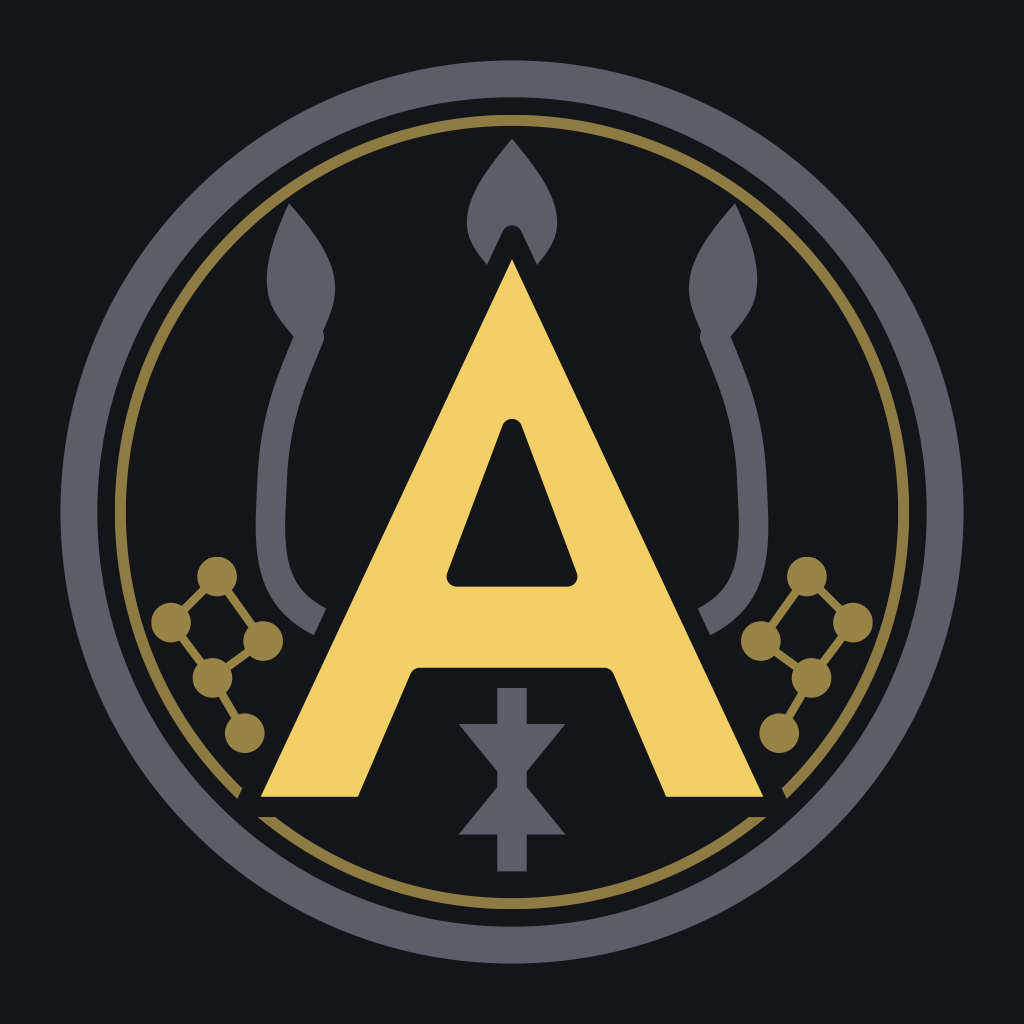
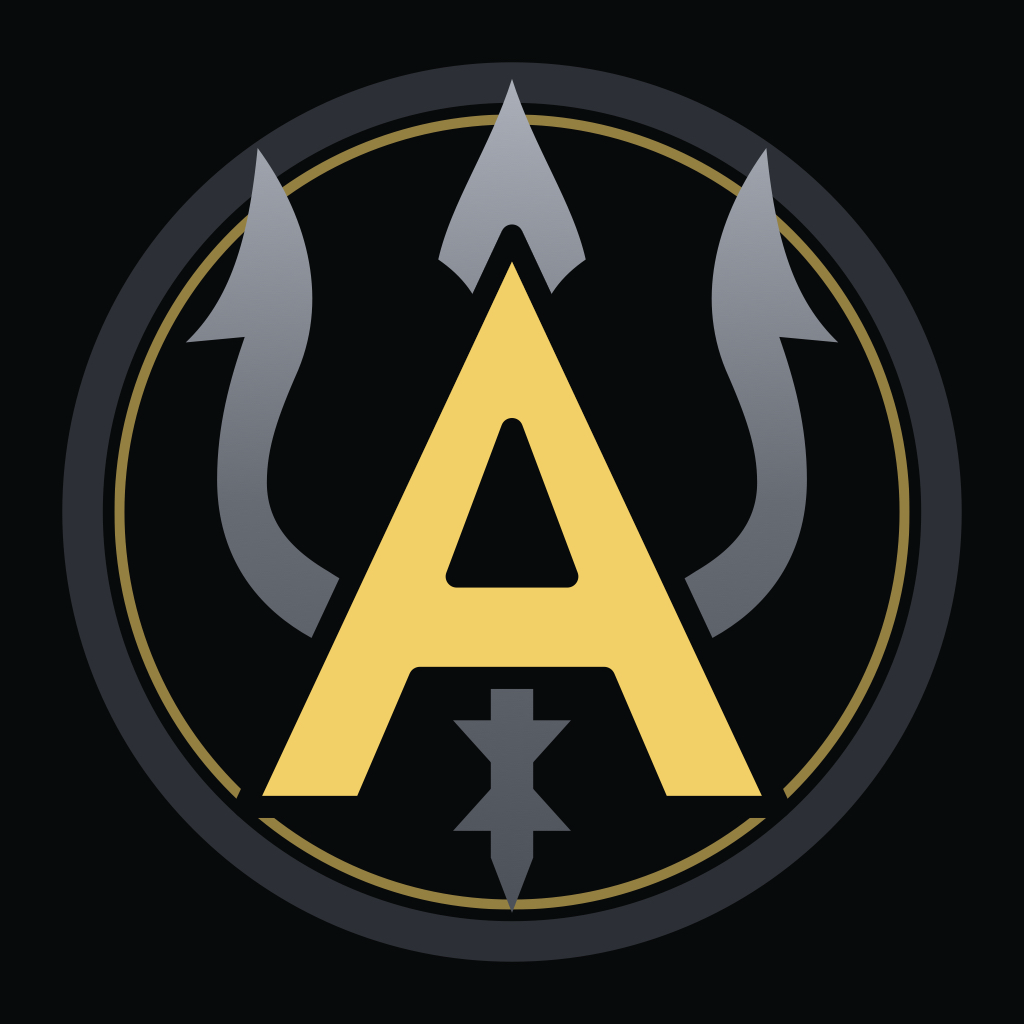
Ananta's mark, dark and forged: only the A and Shiva's trishul; the same emblem on the top-right button and the orb
Madhav, 9 Nov 17:46 Toronto: remove the two "flags" beside the A (the
lattice dots), a fiercer Shiva trishul, dark and powerful, and the
bottom tab button uses the same logo as the top right. logo.tsx: no
lattice; steel-gradient trishul (spearhead into the ring, flame blades
with barbs, damru) on a near-black disc in a dark ring; the mark owns
its colours (gold A in every theme), one gradient id per instance. Orb:
the mark itself with the gold halo; the microphone stays on the Ask
tab. make_icons reads shapes and colours from logo.tsx; app icon,
splash and web icons regenerated (?v=trishul2).

Claude-Session: https://claude.ai/code/session_012VgHyxRYX3rLXVbtJRegjt

diff --git a/jarvis/app/src/logo.tsx b/jarvis/app/src/logo.tsx
@@ -1,53 +1,48 @@
-// Ananta's mark. A bold, flat letter A in Ananta's yellow with a trishul standing behind it (7 Nov 2026, Madhav: "I want trisul
-// (Indian)", replacing the Oct 15 trident): three leaf blades, the side arms sweeping out from a collar on the shaft, and a damru tied
-// on the shaft between the A's legs. A faint lattice of nodes sits low at the sides, everything inside the double ring. The ring and the
-// trishul are grey so the A carries the colour.
-// Used by: the new look's top-right button (More), the orb in the new look's bottom bar (the "solo" form: no ring, no lattice, dark on
-// gold), the Ananta button on classic Home, the drawer, the website's header and, rendered to PNG, the Home Screen icons in public/icons.
-// scripts/make_icons.py reads the shapes below from this file, so the app and the icons can never drift apart: change them only here.
-import Svg, { Circle, G, Line, Path } from "react-native-svg";
-import { C } from "./theme";
+// Ananta's mark. A bold, flat letter A in Ananta's yellow with Shiva's trishul standing behind it, on a near-black disc inside a dark ring.
+// 9 Nov 2026 (Madhav: "only A and trisul on the logo ... a bit more fierceful trisul (shiva trisul) ... the logo should feel dark and
+// powerful"): the lattice of nodes at the sides is gone (at the size of a button it read as two flags); the trishul is forged steel, light
+// at the tips and dark at the foot: a long spearhead that reaches into the ring, two flame blades with an outward barb on crescent arms,
+// and the damru tied on the shaft between the A's legs. (7 Nov: the trishul replaced the Oct 15 trident.)
+// The mark carries its own colours, so it is the same emblem everywhere: the new look's top-right button (More), the orb in the bottom
+// bar, classic Home's Ananta button, the drawer, the website's header and, rendered to PNG, the app icon and the Home Screen icons.
+// scripts/make_icons.py reads the shapes and colours below from this file, so the app and the icons can never drift: change them only here.
+import { useId } from "react";
+import Svg, { Circle, Defs, G, LinearGradient, Path, Stop } from "react-native-svg";
 
-type P = { color: string; size?: number; grey?: string; ink?: string; solo?: boolean };
+type P = { size?: number; color?: string };      // the A is Ananta's yellow in every theme (a blue or brown A on the dark disc is not the mark)
 
 // MARK-SHAPES-START (read by scripts/make_icons.py)
-export const TRISHUL_ARMS = [
-  "M47 64.6 C22 64.6 23.5 57 24.0 46 C24.4 39 26.4 35 28.0 31",
-  "M53 64.6 C78 64.6 76.5 57 76 46 C75.6 39 73.6 35 72 31",
-];
 export const TRISHUL = [
-  "M 50.0 9.5 C 53.1 13.2 55.4 16.4 54.8 19.6 C 54.3 21.8 52.5 23.2 51.3 25.0 L 48.7 25.0 C 47.5 23.2 45.7 21.8 45.2 19.6 C 44.6 16.4 46.9 13.2 50.0 9.5 Z",
-  "M48.4 24 L51.6 24 L51.6 41 L48.4 41 Z",
-  "M48.4 57 L51.6 57 L51.6 89 L48.4 89 Z",
-  "M 25.8 16.5 C 28.7 19.8 30.9 22.7 30.8 26.0 C 30.7 28.2 29.6 29.8 29.0 31.7 L 27.0 31.9 C 25.9 30.3 24.4 29.1 23.7 27.0 C 22.8 23.9 24.0 20.4 25.8 16.5 Z",
-  "M 74.2 16.5 C 76.0 20.4 77.2 23.9 76.3 27.0 C 75.6 29.1 74.1 30.3 73.0 31.9 L 71.0 31.7 C 70.4 29.8 69.3 28.2 69.2 26.0 C 69.1 22.7 71.3 19.8 74.2 16.5 Z",
-  "M45.4 63.6 L54.6 63.6 L53.8 67.4 L46.2 67.4 Z",
-  "M44.2 73 L55.8 73 L50.9 79 L49.1 79 Z",
-  "M49.1 79 L50.9 79 L55.8 85 L44.2 85 Z",
+  "M50 3 C52.4 10.5 56.6 16.4 58 22.6 C55.4 24.4 53.6 26.6 52.8 30 L47.2 30 C46.4 26.6 44.6 24.4 42 22.6 C43.4 16.4 47.6 10.5 50 3 Z",
+  "M45 67.5 C31 67.5 18 61 18 46.5 C18 40.6 19.4 35.6 21 31 L14.6 31.6 C19.4 27 21.4 20.6 22.4 10.5 C27.6 17.6 30.2 26.4 26.8 34.6 C24.6 39.6 23.4 43 23.4 46.8 C23.4 50.8 25.6 53.8 30 56.4 C34.6 59.4 40 61.6 45 61.6 Z",
+  "M55 67.5 C69 67.5 82 61 82 46.5 C82 40.6 80.6 35.6 79 31 L85.4 31.6 C80.6 27 78.6 20.6 77.6 10.5 C72.4 17.6 69.8 26.4 73.2 34.6 C75.4 39.6 76.6 43 76.6 46.8 C76.6 50.8 74.4 53.8 70 56.4 C65.4 59.4 60 61.6 55 61.6 Z",
+  "M47.7 57 L52.3 57 L52.3 87.5 L50 93.5 L47.7 87.5 Z",
+  "M43.5 62.5 L56.5 62.5 L55 68 L45 68 Z",
+  "M43.6 72.6 L56.4 72.6 L51 78.6 L49 78.6 Z",
+  "M49 78.6 L51 78.6 L56.4 84.6 L43.6 84.6 Z"
 ];
 export const LETTER_A = "M50 20 L79 82 L66 82 L60 68 L40 68 L34 82 L21 82 Z M50 41 L56 57 L44 57 Z";
-export const NODES: [number, number][] = [[13, 62], [18, 57], [17.5, 68], [23, 64], [21, 74], [87, 62], [82, 57], [82.5, 68], [77, 64], [79, 74]];
-export const EDGES: [number, number][] = [[0, 1], [0, 2], [1, 3], [2, 3], [2, 4], [5, 6], [5, 7], [6, 8], [7, 8], [7, 9]];
+export const MARK_COLORS = { "disc": "#08090B", "ring": "#2C2F35", "steelTop": "#A9AEB8", "steelMid": "#666A73", "steelBottom": "#4C5058", "gold": "#F2CF66" };
 // MARK-SHAPES-END
 
-export function AnantaMark({ color, size = 24, grey = C.faint, ink = C.bg, solo = false }: P) {   // every caller passes its theme's colours
+export function AnantaMark({ color = MARK_COLORS.gold, size = 24 }: P) {
+  const id = "am" + useId().replace(/[^a-zA-Z0-9]/g, "");          // one gradient per mark on the page (several marks can be on screen)
   return (
     <Svg width={size} height={size} viewBox="0 0 100 100" fill="none">
-      {solo ? null : <Circle cx={50} cy={50} r={47} stroke={grey} strokeWidth={4} />}
-      {solo ? null : <Circle cx={50} cy={50} r={42.5} stroke={color} strokeWidth={1.2} opacity={0.55} />}
-      <G stroke={grey} strokeWidth={3.2} strokeLinecap="round" fill="none">
-        {TRISHUL_ARMS.map((d, i) => <Path key={i} d={d} />)}
-      </G>
-      <G fill={grey}>
+      <Defs>
+        <LinearGradient id={id} gradientUnits="userSpaceOnUse" x1={0} y1={4} x2={0} y2={94}>
+          <Stop offset={0} stopColor={MARK_COLORS.steelTop} />
+          <Stop offset={0.5} stopColor={MARK_COLORS.steelMid} />
+          <Stop offset={1} stopColor={MARK_COLORS.steelBottom} />
+        </LinearGradient>
+      </Defs>
+      <Circle cx={50} cy={50} r={48} fill={MARK_COLORS.disc} />
+      <Circle cx={50} cy={50} r={46.6} stroke={MARK_COLORS.ring} strokeWidth={4.4} />
+      <Circle cx={50} cy={50} r={42.6} stroke={color} strokeWidth={1.1} opacity={0.6} />
+      <G fill={`url(#${id})`}>
         {TRISHUL.map((d, i) => <Path key={i} d={d} />)}
       </G>
-      {solo ? null : (
-        <G stroke={color} strokeWidth={0.9} opacity={0.6} fill={color}>
-          {EDGES.map(([a, b], i) => <Line key={i} x1={NODES[a][0]} y1={NODES[a][1]} x2={NODES[b][0]} y2={NODES[b][1]} />)}
-          {NODES.map(([x, y], i) => <Circle key={i} cx={x} cy={y} r={1.7} />)}
-        </G>
-      )}
-      <Path fillRule="evenodd" d={LETTER_A} fill={color} stroke={ink} strokeWidth={2.2} strokeLinejoin="round" />
+      <Path fillRule="evenodd" d={LETTER_A} fill={color} stroke={MARK_COLORS.disc} strokeWidth={2.4} strokeLinejoin="round" />
     </Svg>
   );
 }

diff --git a/jarvis/app/src/newui.tsx b/jarvis/app/src/newui.tsx
@@ -130,16 +130,17 @@ export const PeopleIcon = ({ color, size }: { color: string; size?: number }) =>
 export const MicIcon2 = ({ color, size }: { color: string; size?: number }) => <I color={color} size={size}><Rect x={9} y={3} width={6} height={11} rx={3} /><Path d="M5 11a7 7 0 0 0 14 0M12 18v3M9 21h6" /></I>;
 export const LockIcon = ({ color, size }: { color: string; size?: number }) => <I color={color} size={size}><Rect x={5} y={11} width={14} height={10} rx={2} /><Path d="M8 11V7a4 4 0 0 1 8 0v4" /></I>;
 
-// 7 Nov 2026 (Madhav): the orb carries Ananta's mark (the A with the trishul, in its plain "solo" form, dark on gold); on the Ask tab,
-// where the same press starts the voice, it shows the microphone instead, so what a press will do is always what the orb shows.
+// The orb in the bottom bar. 9 Nov 2026 (Madhav: "we use the same top right one in the bottom as tab button as well"): it is Ananta's mark
+// itself, the same emblem as the top-right button, with a soft gold halo; on the Ask tab, where the same press starts the voice, it shows
+// the microphone on gold instead, so what a press will do is always what the orb shows.
 export function Orb({ size = 56, onPress, label = "Ask Ananta", mic = false }: { size?: number; onPress?: () => void; label?: string; mic?: boolean }) {
   return (
     <Pressable onPress={onPress} accessibilityRole="button" accessibilityLabel={label}
-      style={{ width: size, height: size, borderRadius: 999, backgroundColor: G.gold(), alignItems: "center", justifyContent: "center",
+      style={{ width: size, height: size, borderRadius: 999, backgroundColor: mic ? G.gold() : "#08090B", alignItems: "center", justifyContent: "center",
         shadowColor: C.gold, shadowOpacity: 0.35, shadowRadius: 16, shadowOffset: { width: 0, height: 8 }, elevation: 8 }}>
       <View style={{ position: "absolute", left: -9, top: -9, right: -9, bottom: -9, borderRadius: 999, borderWidth: 2, borderColor: G.glow() }} />
       {mic ? <MicIcon2 color={G.onGold()} size={Math.round(size * 0.43)} />
-        : <AnantaMark solo color={G.onGold()} grey="rgba(0,0,0,0.5)" ink={G.gold()} size={Math.round(size * 0.8)} />}
+        : <AnantaMark size={size + 6} />}
     </Pressable>
   );
 }

diff --git a/jarvis/app/src/ananta.tsx b/jarvis/app/src/ananta.tsx
@@ -27,7 +27,7 @@ export function AnantaButton({ count, onPress }: { count: number; onPress: () =>
   return (
     <Pressable onPress={onPress} accessibilityRole="button" accessibilityLabel={count ? `Ananta, ${count} to check` : "Ananta"} hitSlop={6}
       style={({ pressed }) => ({ width: 60, height: 60, borderRadius: 30, alignItems: "center", justifyContent: "center", opacity: pressed ? 0.7 : 1 })}>
-      <AnantaMark color={C.accent} size={56} grey={C.faint} ink={C.bg} />
+      <AnantaMark size={56} />
       {count ? (
         <View style={{ position: "absolute", top: -4, right: -4, minWidth: 20, height: 20, borderRadius: 10, backgroundColor: C.bad, alignItems: "center", justifyContent: "center", paddingHorizontal: 5, borderWidth: 2, borderColor: C.bg }}>
           <Text style={{ color: C.onInk, fontSize: 11, fontWeight: "800" }}>{count}</Text>
@@ -94,7 +94,7 @@ export function AnantaSheet({ open, onClose, home, onChanged }: { open: boolean;
     <Modal visible={open} animationType="slide" onRequestClose={onClose}>
       <View style={{ flex: 1, backgroundColor: C.bg, paddingTop: top }}>
         <View style={{ height: 48, flexDirection: "row", alignItems: "center", paddingHorizontal: 16, gap: 10 }}>
-          <AnantaMark color={C.accent} size={34} grey={C.faint} ink={C.bg} />
+          <AnantaMark size={34} />
           <Text style={{ color: C.text, fontWeight: "800", fontSize: 18, flex: 1 }}>Ananta</Text>
           <Pressable onPress={onClose} hitSlop={12} accessibilityLabel="Close"><Text style={{ color: C.dim, fontSize: 20 }}>✕</Text></Pressable>
         </View>

diff --git a/jarvis/app/src/landing.tsx b/jarvis/app/src/landing.tsx
@@ -105,7 +105,7 @@ export function Landing({ st, contact, signIn }: { st: any; contact: string; sig
       <View style={{ maxWidth: 1120, width: "100%", alignSelf: "center", paddingHorizontal: pad }}>
         <View style={{ flexDirection: "row", alignItems: "center", justifyContent: "space-between", paddingVertical: 22 }}>
           <View style={{ flexDirection: "row", alignItems: "center", gap: 10 }}>
-            <AnantaMark color={K.gold} size={46} grey={K.line2} ink={K.bg} />
+            <AnantaMark size={46} />
             <Text style={{ color: K.text, fontSize: 18, fontWeight: "800", letterSpacing: 6 }}>ANANT<Text style={{ color: K.gold }}>A</Text></Text>
           </View>
           <Pressable onPress={toSignIn} accessibilityRole="button" style={{ borderWidth: 1, borderColor: K.line2, borderRadius: 999, paddingHorizontal: 16, paddingVertical: 8 }}>

diff --git a/jarvis/app/src/newscreen.tsx b/jarvis/app/src/newscreen.tsx
@@ -27,8 +27,8 @@ export function NScreen({ title, children, loading, onRefresh, err, scrollRef }:
         </View>
         {/* 7 Nov 2026 (Madhav): Ananta's mark here instead of the letter M; it still opens More (settings, the market, sign-out) */}
         <Pressable onPress={() => router.push("/more" as any)} accessibilityRole="button" accessibilityLabel="More"
-          style={{ width: 40, height: 40, borderRadius: 999, alignItems: "center", justifyContent: "center" }}>
-          <AnantaMark color={G.gold()} grey={C.faint} ink={C.bg} size={40} />
+          style={{ width: 44, height: 44, borderRadius: 999, alignItems: "center", justifyContent: "center" }}>
+          <AnantaMark size={44} />
         </Pressable>
       </View>
       {err ? <View style={{ backgroundColor: C.badSoft, borderRadius: 16, padding: 14 }}><Body>{err}</Body></View> : null}

diff --git a/jarvis/app/src/drawer.tsx b/jarvis/app/src/drawer.tsx
@@ -68,7 +68,7 @@ export function AppDrawer({ open, onClose }: { open: boolean; onClose: () => voi
       <View style={{ flex: 1, flexDirection: "row" }}>
         <View style={{ width: "82%", maxWidth: 360, backgroundColor: C.bg, paddingTop: top + 12, borderRightWidth: 1, borderRightColor: C.line }}>
           <View style={{ flexDirection: "row", alignItems: "center", gap: 10, paddingHorizontal: 16, paddingBottom: 12 }}>
-            <AnantaMark color={C.accent} size={40} grey={C.faint} ink={C.bg} />
+            <AnantaMark size={40} />
             <Text style={{ color: C.text, fontWeight: "800", fontSize: 18, flex: 1 }}>Ananta</Text>
             <Pressable onPress={onClose} hitSlop={10} accessibilityLabel="Close the menu"><Text style={{ color: C.dim, fontSize: 18 }}>✕</Text></Pressable>
           </View>

diff --git a/jarvis/app/public/index.html b/jarvis/app/public/index.html
@@ -7,8 +7,8 @@
     <meta name="viewport" content="width=device-width, initial-scale=1, shrink-to-fit=no, viewport-fit=cover" />
     <title>Ananta</title>
     <link rel="manifest" href="/manifest.webmanifest" />
-    <link rel="icon" type="image/png" sizes="32x32" href="/icons/favicon-32.png?v=trishul" />
-    <link rel="apple-touch-icon" href="/icons/apple-touch-icon.png?v=trishul" />
+    <link rel="icon" type="image/png" sizes="32x32" href="/icons/favicon-32.png?v=trishul2" />
+    <link rel="apple-touch-icon" href="/icons/apple-touch-icon.png?v=trishul2" />
     <meta name="apple-mobile-web-app-capable" content="yes" />
     <meta name="mobile-web-app-capable" content="yes" />
     <meta name="apple-mobile-web-app-status-bar-style" content="black-translucent" />

diff --git a/jarvis/app/public/sw.js b/jarvis/app/public/sw.js
@@ -7,8 +7,8 @@ self.addEventListener("push", (e) => {
   try { d = e.data ? e.data.json() : {}; } catch (_) { d = { body: e.data ? e.data.text() : "" }; }
   e.waitUntil(self.registration.showNotification(d.title || "Ananta", {
     body: d.body || "",
-    icon: "/icons/icon-192.png?v=trishul",
-    badge: "/icons/favicon-32.png?v=trishul",
+    icon: "/icons/icon-192.png?v=trishul2",
+    badge: "/icons/favicon-32.png?v=trishul2",
     data: { url: d.url || "/" },
   }));
 });

diff --git a/jarvis/app/scripts/make_icons.py b/jarvis/app/scripts/make_icons.py
@@ -4,37 +4,35 @@ import subprocess
 from pathlib import Path
 
 ROOT = Path(__file__).resolve().parents[1]
-Y, G, D = "#F2CF66", "#5A5E66", "#141518"
-
-
 def shapes() -> dict:
-    """The mark's shapes, read from src/logo.tsx (the one place they live; 7 Nov 2026: the trishul replaced the trident there)."""
+    """The mark's shapes and colours, read from src/logo.tsx (the one place they live; 9 Nov 2026: Shiva's trishul in forged steel, the
+    lattice gone, the emblem on its own near-black disc)."""
     import json
     import re
     src = (ROOT / "src" / "logo.tsx").read_text()
     block = src[src.index("MARK-SHAPES-START"):src.index("MARK-SHAPES-END")]
-    def arr(name: str):
-        m = re.search(rf"export const {name}(?::[^=]+)?\s*=\s*(\[.*?\]);\n", block, re.S)
-        return json.loads(re.sub(r",\s*\]", "]", m.group(1)))
+    tri = json.loads(re.sub(r",\s*\]", "]", re.search(r"export const TRISHUL\s*=\s*(\[.*?\]);\n", block, re.S).group(1)))
     a = re.search(r'export const LETTER_A = "([^"]+)"', block).group(1)
-    return {"arms": arr("TRISHUL_ARMS"), "trishul": arr("TRISHUL"), "a": a, "nodes": arr("NODES"), "edges": arr("EDGES")}
+    col = json.loads(re.search(r"export const MARK_COLORS = (\{.*?\});", block, re.S).group(1))
+    return {"trishul": tri, "a": a, "colors": col}
+
+
+D = shapes()["colors"]["disc"]          # the page behind the mark in every icon: the emblem's own near-black
 
 
 def svg(pad: float) -> str:
     """The mark in a 100 x 100 box, shrunk by `pad` around the centre (maskable icons need a safe margin)."""
     s = shapes()
+    c = s["colors"]
     k = 1 - pad
-    N = s["nodes"]
-    lat = "".join(f'<line x1="{N[a][0]}" y1="{N[a][1]}" x2="{N[b][0]}" y2="{N[b][1]}"/>' for a, b in s["edges"])
-    dots = "".join(f'<circle cx="{x}" cy="{y}" r="1.7"/>' for x, y in N)
-    arms = "".join(f'<path d="{d}"/>' for d in s["arms"])
     tri = "".join(f'<path d="{d}"/>' for d in s["trishul"])
-    return f'''<svg xmlns="http://www.w3.org/2000/svg" viewBox="0 0 100 100" width="1024" height="1024"><rect width="100" height="100" fill="{D}"/>
+    return f'''<svg xmlns="http://www.w3.org/2000/svg" viewBox="0 0 100 100" width="1024" height="1024"><rect width="100" height="100" fill="{c["disc"]}"/>
+<defs><linearGradient id="st" gradientUnits="userSpaceOnUse" x1="0" y1="4" x2="0" y2="94"><stop offset="0" stop-color="{c["steelTop"]}"/><stop offset="0.5" stop-color="{c["steelMid"]}"/><stop offset="1" stop-color="{c["steelBottom"]}"/></linearGradient></defs>
 <g transform="translate(50 50) scale({k}) translate(-50 -50)">
-<circle cx="50" cy="50" r="47" fill="none" stroke="{G}" stroke-width="4"/><circle cx="50" cy="50" r="42.5" fill="none" stroke="{Y}" stroke-width="1.2" opacity="0.55"/>
-<g fill="none" stroke="{G}" stroke-width="3.2" stroke-linecap="round">{arms}</g><g fill="{G}">{tri}</g>
-<g stroke="{Y}" stroke-width="0.9" opacity="0.6" fill="{Y}">{lat}{dots}</g>
-<path fill-rule="evenodd" d="{s["a"]}" fill="{Y}" stroke="{D}" stroke-width="2.2" stroke-linejoin="round"/>
+<circle cx="50" cy="50" r="48" fill="{c["disc"]}"/><circle cx="50" cy="50" r="46.6" fill="none" stroke="{c["ring"]}" stroke-width="4.4"/>
+<circle cx="50" cy="50" r="42.6" fill="none" stroke="{c["gold"]}" stroke-width="1.1" opacity="0.6"/>
+<g fill="url(#st)">{tri}</g>
+<path fill-rule="evenodd" d="{s["a"]}" fill="{c["gold"]}" stroke="{c["disc"]}" stroke-width="2.4" stroke-linejoin="round"/>
 </g></svg>'''
 
 
